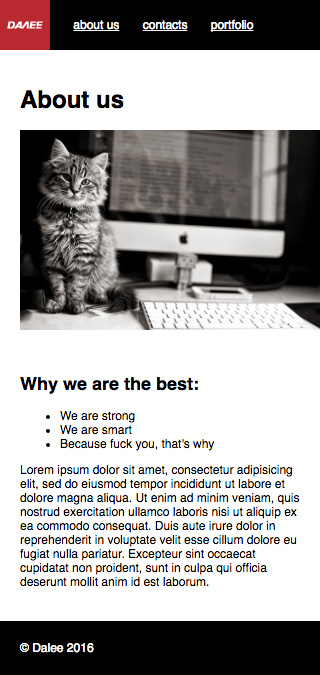
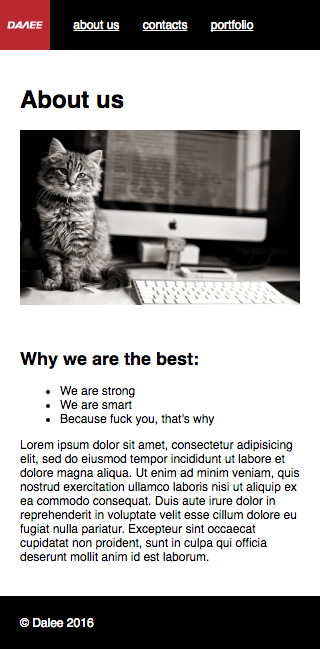
fixes

diff --git a/index.html b/index.html
@@ -91,6 +91,23 @@
 		<input type="text" placeholder="введите текст" />
 	</div></section>
 	<section class="slide"><div>
+		<ul>
+			<li><code>html, body, head</code> - внешние</li>
+			<li><code>title, meta, link, script</code> - служебные</li>
+			<li>
+				<code>div, span, header, footer, section</code>  - абстрактые обертки без дефолтных стилей
+			</li>
+			<li>
+				<code>h1-h6, p, ul, table, dl, fieldset</code> - cпецефическое оформление (абзац, список, таблица, список определений, блок с полями форм)
+			</li>
+			<li><code>b, i, strong, small, sup</code> - оформление текста</li>
+			<li><code>a</code> - ссылки (aka гиперссылки)</li>
+			<li><code>img, video, audio, svg — изображения и media</code>
+			<li><code>input, select, textarea, button</code> - элементы форм</li>
+			<li><code>br, hr</code> - форматирование</li>
+		</ul>
+	</div></section>
+	<section class="slide"><div>
 		<h2>Блочные</h2>
 		<pre>
 			<code>&lt;div&gt;коробка&lt;/div&gt;</code>
@@ -131,23 +148,6 @@
 		</pre>
 		<img src="pictures/dalee-logo.svg">
 		<img src="pictures/dalee-logo.svg">
-	</div></section>
-	<section class="slide"><div>
-		<ul>
-			<li><code>html, body, head</code> - внешние</li>
-			<li><code>title, meta, link, script</code> - служебные</li>
-			<li>
-				<code>div, span, header, footer, section</code>  - абстрактые обертки без дефолтных стилей
-			</li>
-			<li>
-				<code>h1-h6, p, ul, table, dl, fieldset</code> - cпецефическое оформление (абзац, список, таблица, список определений, блок с полями форм)
-			</li>
-			<li><code>b, i, strong, small, sup</code> - оформление текста</li>
-			<li><code>a</code> - ссылки (aka гиперссылки)</li>
-			<li><code>img, video, audio, svg — изображения и media</code>
-			<li><code>input, select, textarea, button</code> - элементы форм</li>
-			<li><code>br, hr</code> - форматирование</li>
-		</ul>
 	</div></section>
 	<section class="slide"><div>
 		<h2>Атрибуты</h2>
@@ -357,7 +357,9 @@
 	<section class="slide"><div>
 		<h2>Элементы форм</h2>
 		<ul>
-			<li class="next">кастомизация</li>
+			<li class="next">сложная кастомизация</li>
+			<li class="next">разные варианты кастомизации одних и тех же элементов</li>
+			<li class="next">разное оформление похожих форм</li>
 		</ul>
 	</div></section>
 	<section class="slide"><div>

diff --git a/example.html b/example.html
@@ -8,15 +8,16 @@
 <body>
 	<div class="page">
 		<div class="header">
-			<img src="pictures/dalee-logo.svg" alt="Dalee" class="logo"  height="100">
+			<img src="pictures/dalee-logo.svg" alt="Dalee" class="logo">
 			<div class="menu">
-				<span class="item"><a href="" class="link">about us</a></span>
-				<span class="item"><a href="" class="link">contacts</a></span>
-				<span class="item"><a href="" class="link">portfolio</a></span>
+				<span class="item"><a href="about" class="link">about us</a></span>
+				<span class="item"><a href="contacts" class="link">contacts</a></span>
+				<span class="item"><a href="portfolio" class="link">portfolio</a></span>
 			</div>
 		</div>
 		<div class="content">
 			<h1>About us</h1>
+			<img src="pictures/cat.jpg" alt="" width="300" />
 			<div class="text">
 				<h2>Why we are the best:</h2>
 				<ul>
@@ -24,7 +25,6 @@
 					<li>We are smart</li>
 					<li>Because fuck you, that's why</li>
 				</ul>
-				<img src="pictures/cat.jpg" alt="" width="300" />
 				<p>Lorem ipsum dolor sit amet, consectetur adipisicing elit, sed do eiusmod tempor incididunt ut labore et dolore magna aliqua. Ut enim ad minim veniam, quis nostrud exercitation ullamco laboris nisi ut aliquip ex ea commodo consequat. Duis aute irure dolor in reprehenderit in voluptate velit esse cillum dolore eu fugiat nulla pariatur. Excepteur sint occaecat cupidatat non proident, sunt in culpa qui officia deserunt mollit anim id est laborum.</p>
 			</div>
 		</div>

diff --git a/example.css b/example.css
@@ -30,7 +30,7 @@ body, html {
 }
 .content img {
 	float: left;
-	height: 200px;
+	width: 300px;
 	margin: 0 40px 40px 0;
 }
 .content .text {
@@ -59,6 +59,7 @@ body, html {
 	}
 	.content img {
 		float: none;
+		width: 100%;
 		margin: 0 0 40px 0;
 	}
 	.footer {
